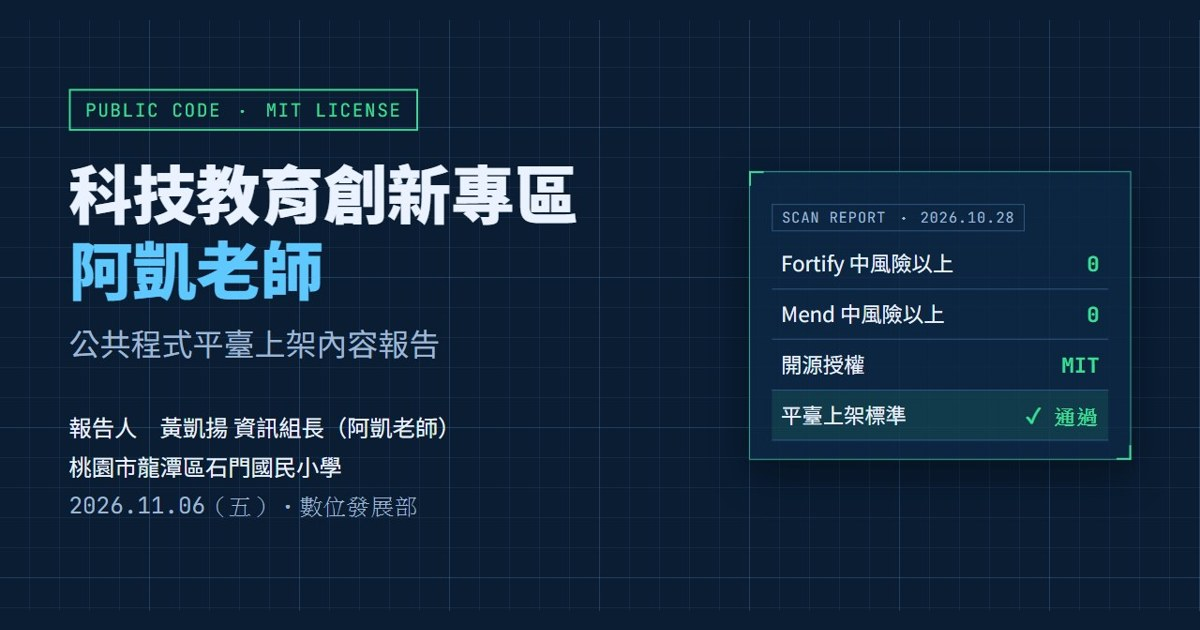
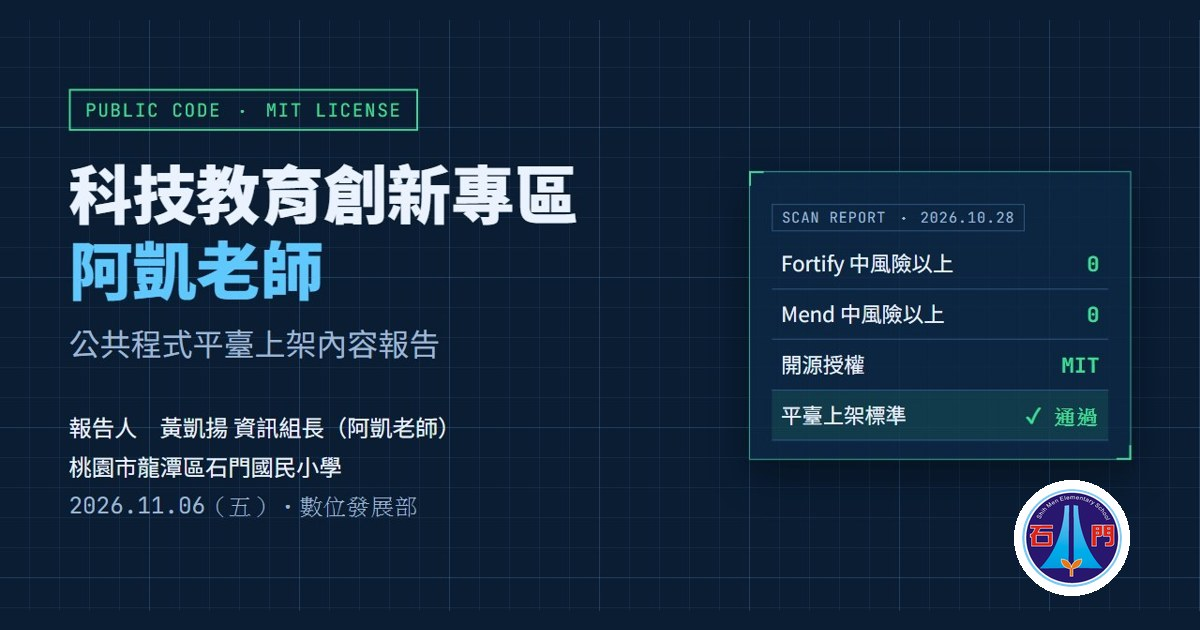
feat: 圖示全套與社群分享圖更新，加入 Service Worker 與新版本提示
- 圖示：favicon.ico／svg、apple-touch-icon、192／512 及可遮罩版本，manifest.webmanifest
- OG 預覽圖加入校徽；補齊 og:image:alt／secure_url／type、twitter 與 apple-mobile-web-app 標籤
- Service Worker：現場網路不穩時簡報仍可開啟，第三方函式庫與字型留存
- 新版本提示列（桌機膠囊、手機底部卡片），取代載入時自動重新整理；版本號改為提交時間加雜湊，同一提交重跑不會誤報

Changed region(s): [[0.8325, 0.754, 0.9558, 0.9651]]

diff --git a/js/sw-register.js b/js/sw-register.js
@@ -1,0 +1,142 @@
+/* Service Worker 註冊與「有新版本」提示
+ *  - 新版部署後，已開著簡報的人會看到提示列，按「重新整理載入」才換版（簡報進行中不會被突然換頁）。
+ *  - 兩個偵測來源：① 新 Service Worker 進入 waiting；② 讀 version.json 發現比目前頁面新。
+ *    兩者共用同一個提示、同一個按鈕；按下當下才查 waiting，沒有就改用帶版本號的網址重新載入。
+ *  - 版本閘門：只有「比目前頁面版本新」才提示（CDN 邊緣節點殘留舊檔時不會誤報）；同一版本只提示一次，按過更新的版本不再提示。
+ *  - 網址加 ?swdemo=1 可直接預覽提示列的樣式。 */
+(function () {
+  var params = new URLSearchParams(location.search);
+  if (params.has('print-pdf')) return;
+
+  var meta = document.querySelector('meta[name="build-version"]');
+  var APP_VERSION = meta ? meta.content : '';
+  var DEV = !APP_VERSION || APP_VERSION.indexOf('__') === 0; // 本機開發沒有版本號
+  var DEMO = params.has('swdemo');
+  var ACK_KEY = 'moda2026akai_update_ack';
+  var SW_REG = null;
+  var UPDATING = false;
+  var announced = '';
+  var latest = '';
+  var HAD_CONTROLLER = !!(navigator.serviceWorker && navigator.serviceWorker.controller); // 第一次安裝接管頁面不算新版
+
+  function ssGet(k) { try { return sessionStorage.getItem(k); } catch (e) { return null; } }
+  function ssSet(k, v) { try { sessionStorage.setItem(k, v); } catch (e) { /* 忽略 */ } }
+
+  // 版本格式：2026.11.01-0838-c008940（日期時間可排序＋提交雜湊）。比較時間部分，較舊＝CDN 殘留，忽略。
+  function stamp(v) { return String(v).replace(/-[0-9a-f]{7,}$/i, ''); }
+  function isNewer(candidate, base) {
+    if (!candidate || !base || candidate === base) return false;
+    var a = stamp(candidate), b = stamp(base);
+    return a !== b ? a > b : true;
+  }
+
+  function hardReload() {
+    var u = new URL(location.href);
+    u.searchParams.set('v', latest || String(Date.now()));
+    location.replace(u.toString());
+  }
+
+  function applyUpdate() {
+    if (UPDATING) return;
+    UPDATING = true;
+    ssSet(ACK_KEY, latest);
+    var bar = document.getElementById('sw-update-bar');
+    if (bar) bar.remove();
+    document.documentElement.classList.remove('has-update-bar');
+    if (SW_REG && SW_REG.waiting) {
+      SW_REG.waiting.postMessage({ type: 'SKIP_WAITING' }); // → activate → controllerchange → 重新載入
+      setTimeout(hardReload, 8000); // 保底：手機接管較慢時多等一下，仍沒換手才改用帶版本號的網址載入
+    } else {
+      hardReload();
+    }
+  }
+
+  function showBar(version) {
+    if (!DEMO && (DEV || !version || announced === version || ssGet(ACK_KEY) === version)) return;
+    if (document.getElementById('sw-update-bar')) return;
+    announced = version || announced;
+    latest = version || latest;
+    var bar = document.createElement('div');
+    bar.id = 'sw-update-bar';
+    bar.setAttribute('role', 'status');
+    bar.setAttribute('aria-live', 'polite');
+    bar.innerHTML =
+      '<span class="sw-msg"><b>簡報有新版本</b><small>重新整理載入，就能看到最新內容</small></span>' +
+      '<button type="button" id="sw-x" aria-label="關閉提示">✕</button>' +
+      '<button type="button" id="sw-go">重新整理載入</button>';
+    document.body.appendChild(bar);
+    document.documentElement.classList.add('has-update-bar');
+    document.getElementById('sw-x').onclick = function () {
+      bar.remove();
+      document.documentElement.classList.remove('has-update-bar');
+    };
+    document.getElementById('sw-go').onclick = applyUpdate; // 統一走 applyUpdate：點擊當下才查 waiting
+  }
+
+  if (DEMO) { showBar('demo'); }
+
+  // 讀取任一 Service Worker 的版本；1.5 秒沒回應就當作未知（寧可多提示，不擋真更新）
+  function workerVersion(worker) {
+    return new Promise(function (resolve) {
+      try {
+        var ch = new MessageChannel();
+        var timer = setTimeout(function () { resolve(null); }, 1500);
+        ch.port1.onmessage = function (e) { clearTimeout(timer); resolve(e.data && e.data.version ? e.data.version : null); };
+        worker.postMessage({ type: 'GET_VERSION' }, [ch.port2]);
+      } catch (e) { resolve(null); }
+    });
+  }
+
+  function onWaiting(worker) {
+    workerVersion(worker).then(function (v) {
+      if (v && !DEV && !isNewer(v, APP_VERSION)) return; // 同版重建或較舊：不是新版
+      showBar(v || latest || 'waiting');
+    });
+  }
+
+  if (DEV) {
+    // 本機開發：清掉殘留的 Service Worker，避免快取干擾
+    if (navigator.serviceWorker) navigator.serviceWorker.getRegistrations().then(function (rs) { rs.forEach(function (r) { r.unregister(); }); });
+    return;
+  }
+
+  if ('serviceWorker' in navigator) {
+    navigator.serviceWorker.register('sw.js', { updateViaCache: 'none' }).then(function (reg) {
+      SW_REG = reg;
+      if (reg.waiting && navigator.serviceWorker.controller) onWaiting(reg.waiting);
+      reg.addEventListener('updatefound', function () {
+        var nw = reg.installing;
+        if (!nw) return;
+        nw.addEventListener('statechange', function () {
+          if (nw.state === 'installed' && navigator.serviceWorker.controller) onWaiting(nw);
+        });
+      });
+      setInterval(function () { reg.update().catch(function () {}); }, 60000);
+    }).catch(function () { /* 不支援或被封鎖時，仍靠 version.json 提示 */ });
+
+    navigator.serviceWorker.addEventListener('controllerchange', function () {
+      if (!HAD_CONTROLLER) { HAD_CONTROLLER = true; return; } // 第一次安裝＋clients.claim() 也會觸發，不能重新整理
+      if (ssGet('moda2026akai_sw_reloaded')) return;
+      ssSet('moda2026akai_sw_reloaded', '1');
+      setTimeout(function () { try { sessionStorage.removeItem('moda2026akai_sw_reloaded'); } catch (e) { /* 忽略 */ } }, 4000);
+      location.reload();
+    });
+  }
+
+  // 備胎：讀 version.json。發現較新版本時，先叫 Service Worker 去抓更新，再顯示同一個提示列
+  function checkVersion() {
+    fetch('version.json?t=' + Date.now(), { cache: 'no-store' })
+      .then(function (r) { return r.ok ? r.json() : null; })
+      .then(function (d) {
+        if (!d || !isNewer(d.version, APP_VERSION)) return;
+        latest = d.version;
+        if (SW_REG) SW_REG.update().catch(function () {});
+        showBar(d.version);
+      })
+      .catch(function () { /* 離線時維持現狀 */ });
+  }
+  ['focus', 'online', 'pageshow'].forEach(function (ev) { window.addEventListener(ev, checkVersion); });
+  document.addEventListener('visibilitychange', function () { if (document.visibilityState === 'visible') checkVersion(); });
+  setTimeout(checkVersion, 6000);
+  setInterval(checkVersion, 180000);
+})();

diff --git a/sw.js b/sw.js
@@ -1,0 +1,103 @@
+/* Service Worker：讓簡報在現場網路不穩時也能打開，並在有新版時通知頁面提示重新整理。
+ * BUILD_VERSION 由部署流程（.github/stamp_version.py）蓋章，每次部署內容都不同，瀏覽器才會偵測到新版。
+ * install 不呼叫 skipWaiting：新版會停在 waiting，等使用者在頁面按「重新整理載入」才套用，簡報進行中不會被突然換頁。 */
+const BUILD_VERSION = '__BUILD_VERSION__';
+const CACHE = 'moda-akai-v-' + BUILD_VERSION;
+const CDN_CACHE = 'moda-akai-cdn'; // 第三方函式庫與字型：跨版本保留，換版不清掉
+const CDN_HOSTS = ['cdn.jsdelivr.net', 'fonts.googleapis.com', 'fonts.gstatic.com'];
+const V = '?v=' + BUILD_VERSION;
+
+const PRECACHE = [
+  './',
+  'css/deck.css' + V,
+  'js/motion.js' + V,
+  'js/opening.js' + V,
+  'js/deck.js' + V,
+  'js/sw-register.js' + V,
+  'favicon.svg',
+  'apple-touch-icon.png',
+  'manifest.webmanifest',
+  'media/opening-poster.jpg',
+  'images/shot-home.jpg',
+  'images/shot-finder.jpg',
+  'images/shot-tool.jpg',
+  'images/shot-blog.jpg',
+  'images/shot-mobile.jpg',
+  'images/shot-prompt.jpg',
+];
+
+self.addEventListener('install', (event) => {
+  event.waitUntil(
+    caches.open(CACHE).then((cache) =>
+      Promise.allSettled(PRECACHE.map((url) => cache.add(new Request(url, { cache: 'reload' })))))
+  );
+});
+
+self.addEventListener('activate', (event) => {
+  event.waitUntil((async () => {
+    const keys = await caches.keys();
+    await Promise.all(keys.filter((k) => k.startsWith('moda-akai-v-') && k !== CACHE).map((k) => caches.delete(k)));
+    await self.clients.claim();
+  })());
+});
+
+self.addEventListener('message', (event) => {
+  const data = event.data || {};
+  if (data.type === 'SKIP_WAITING') {
+    self.skipWaiting();
+  } else if (data.type === 'GET_VERSION') {
+    event.ports[0]?.postMessage({ version: BUILD_VERSION });
+  }
+});
+
+self.addEventListener('fetch', (event) => {
+  const req = event.request;
+  if (req.method !== 'GET') return;
+  let url;
+  try { url = new URL(req.url); } catch { return; }
+
+  // 影片不經過 Service Worker（瀏覽器用 Range 分段讀取，快取不好處理）
+  if (req.headers.has('range') || /\.(mp4|webm)$/i.test(url.pathname)) return;
+
+  // 第三方函式庫與字型：有快取先用、背景更新（現場沒網路時簡報仍能載入）
+  if (CDN_HOSTS.includes(url.hostname)) {
+    event.respondWith((async () => {
+      const cache = await caches.open(CDN_CACHE);
+      const cached = await cache.match(req);
+      const network = fetch(req).then((res) => {
+        if (res && (res.ok || res.type === 'opaque')) cache.put(req, res.clone());
+        return res;
+      }).catch(() => cached);
+      return cached || network;
+    })());
+    return;
+  }
+
+  if (url.origin !== self.location.origin) return;
+
+  // 版本檔永遠向伺服器要最新的
+  if (url.pathname.endsWith('/version.json')) {
+    event.respondWith(fetch(req, { cache: 'no-store' }).catch(() => caches.match(req)));
+    return;
+  }
+
+  // 頁面本身：網路優先（不吃瀏覽器 10 分鐘快取），離線才用留存的
+  if (req.mode === 'navigate' || (req.headers.get('accept') || '').includes('text/html')) {
+    event.respondWith(
+      fetch(req, { cache: 'no-cache' }).then((res) => {
+        if (res.ok) { const copy = res.clone(); caches.open(CACHE).then((c) => c.put(req, copy)); }
+        return res;
+      }).catch(() => caches.match(req, { ignoreSearch: true }).then((r) => r || caches.match('./')))
+    );
+    return;
+  }
+
+  // 其他同源檔案：網址帶版本號的內容不會變，有快取就直接用；沒有再下載並留存
+  event.respondWith(caches.match(req).then((cached) => {
+    if (cached) return cached;
+    return fetch(req).then((res) => {
+      if (res && res.status === 200 && res.type === 'basic') { const copy = res.clone(); caches.open(CACHE).then((c) => c.put(req, copy)); }
+      return res;
+    }).catch(() => caches.match(req, { ignoreSearch: true }));
+  }));
+});

diff --git a/index.html b/index.html
@@ -7,18 +7,35 @@
   <meta name="description" content="桃園市龍潭區石門國民小學資訊組長黃凱揚，向數位發展部報告「科技教育創新專區・阿凱老師」的開發緣起、校園使用情形、公共程式上架與資安檢測歷程。" />
   <meta name="author" content="阿凱老師（桃園市龍潭區石門國民小學）" />
   <meta name="theme-color" content="#0a1d33" />
+  <meta name="build-version" content="__BUILD_VERSION__" />
+  <!-- 圖示：相對路徑，GitHub Pages 子目錄部署也能正確載入 -->
+  <link rel="icon" href="favicon.ico" sizes="any" />
   <link rel="icon" type="image/svg+xml" href="favicon.svg" />
   <link rel="apple-touch-icon" href="apple-touch-icon.png" />
+  <link rel="manifest" href="manifest.webmanifest" />
+  <meta name="mobile-web-app-capable" content="yes" />
+  <meta name="apple-mobile-web-app-capable" content="yes" />
+  <meta name="apple-mobile-web-app-title" content="阿凱老師報告" />
+  <meta name="apple-mobile-web-app-status-bar-style" content="black-translucent" />
   <link rel="canonical" href="https://cagoooo.github.io/moda-akai-briefing/" />
+  <!-- 社群分享卡片（LINE、Facebook 等）：og:image 一律用絕對網址，並帶版本號避免平台快取舊圖 -->
   <meta property="og:type" content="website" />
+  <meta property="og:site_name" content="科技教育創新專區・阿凱老師" />
   <meta property="og:locale" content="zh_TW" />
   <meta property="og:url" content="https://cagoooo.github.io/moda-akai-briefing/" />
   <meta property="og:title" content="科技教育創新專區・阿凱老師｜公共程式平臺上架內容報告" />
   <meta property="og:description" content="一位國小資訊組長，用 AI 協作開發 133 款教學工具，並通過公共程式平臺資安檢測的歷程。" />
   <meta property="og:image" content="https://cagoooo.github.io/moda-akai-briefing/og-image.jpg?v=__BUILD_VERSION__" />
+  <meta property="og:image:secure_url" content="https://cagoooo.github.io/moda-akai-briefing/og-image.jpg?v=__BUILD_VERSION__" />
+  <meta property="og:image:type" content="image/jpeg" />
   <meta property="og:image:width" content="1200" />
   <meta property="og:image:height" content="630" />
+  <meta property="og:image:alt" content="科技教育創新專區・阿凱老師公共程式平臺上架內容報告封面：Fortify、Mend 中風險以上皆為 0，MIT 開源，通過平臺上架標準" />
   <meta name="twitter:card" content="summary_large_image" />
+  <meta name="twitter:title" content="科技教育創新專區・阿凱老師｜公共程式平臺上架內容報告" />
+  <meta name="twitter:description" content="一位國小資訊組長，用 AI 協作開發 133 款教學工具，並通過公共程式平臺資安檢測的歷程。" />
+  <meta name="twitter:image" content="https://cagoooo.github.io/moda-akai-briefing/og-image.jpg?v=__BUILD_VERSION__" />
+  <meta name="twitter:image:alt" content="科技教育創新專區・阿凱老師公共程式平臺上架內容報告封面" />
   <script>
     try { if (localStorage.getItem('moda2026akai_theme') === 'light') document.documentElement.dataset.theme = 'light'; } catch (e) {}
   </script>
@@ -544,5 +561,6 @@
 <script src="js/motion.js?v=__BUILD_VERSION__"></script>
 <script src="js/opening.js?v=__BUILD_VERSION__"></script>
 <script type="module" src="js/deck.js?v=__BUILD_VERSION__"></script>
+<script src="js/sw-register.js?v=__BUILD_VERSION__"></script>
 </body>
 </html>

diff --git a/css/deck.css b/css/deck.css
@@ -369,6 +369,36 @@ html.is-opening .swipe-hint { opacity: 0; }
   .swipe-hint .sh-arrows i { opacity: 1; }
 }
 
+/* 新版本提示列（js/sw-register.js）：桌機置中膠囊，手機改為底部滿寬卡片 */
+#sw-update-bar {
+  position: fixed; left: 50%; bottom: 44px; transform: translateX(-50%); z-index: 60;
+  display: flex; align-items: center; gap: 14px; width: max-content; max-width: calc(100vw - 24px);
+  background: var(--panel-solid); color: var(--ink); border: 1px solid var(--pass);
+  padding: 12px 14px 12px 20px; box-shadow: var(--shadow), 0 0 0 4px color-mix(in srgb, var(--pass) 16%, transparent);
+  font: 500 16px 'Noto Sans TC', sans-serif; animation: sw-in .35s ease-out;
+}
+#sw-update-bar .sw-msg { display: flex; flex-direction: column; line-height: 1.35; }
+#sw-update-bar .sw-msg b { font-size: 18px; color: var(--pass-ink); }
+#sw-update-bar .sw-msg small { font-size: 14px; color: var(--muted); }
+#sw-update-bar button { cursor: pointer; font: 700 16px 'Noto Sans TC', sans-serif; border: 0; }
+#sw-go { order: 2; background: var(--pass); color: #04210f; padding: 10px 18px; min-height: 44px; }
+[data-theme="light"] #sw-go { background: var(--pass-ink); color: #fff; }
+#sw-x { order: 3; background: transparent; color: var(--muted); width: 44px; height: 44px; font-size: 18px; }
+#sw-go:focus-visible, #sw-x:focus-visible { outline: 3px solid var(--cyan); outline-offset: 2px; }
+html.has-update-bar .swipe-hint { display: none !important; }
+@keyframes sw-in { from { opacity: 0; transform: translate(-50%, 12px); } to { opacity: 1; transform: translate(-50%, 0); } }
+@media (max-width: 560px) {
+  #sw-update-bar {
+    left: 12px; right: 12px; bottom: max(40px, env(safe-area-inset-bottom)); transform: none; width: auto;
+    display: grid; grid-template-columns: 1fr auto; grid-template-areas: "msg x" "go go"; gap: 10px; padding: 14px 14px 14px 18px;
+    animation: none;
+  }
+  #sw-update-bar .sw-msg { grid-area: msg; }
+  #sw-x { grid-area: x; }
+  #sw-go { grid-area: go; width: 100%; min-height: 48px; }
+}
+@media (prefers-reduced-motion: reduce) { #sw-update-bar { animation: none; } }
+
 /* 開場影片頁 */
 .vid-slide .op-wrap { position: relative; width: 1280px; height: 720px; background: #000; }
 .vid-slide .op-video { width: 100%; height: 100%; object-fit: cover; display: block; }

diff --git a/js/deck.js b/js/deck.js
@@ -50,31 +50,7 @@ document.querySelectorAll('.qr[data-url]').forEach((box) => {
   sync();
 })();
 
-/* ---------- 新版偵測 ----------
- * GitHub Pages 會讓瀏覽器把 index.html 留存約 10 分鐘，剛部署完用手機開，可能還拿到舊版頁面（沒有 Service Worker 可以更新）。
- * 載入時用不留快取的方式讀 version.json，和目前頁面引用的版本號比對，不同就換成帶版本號的網址重新載入（每個版本只會重載一次，避免無限重載）。 */
-(function versionCheck() {
-  const RELOAD_KEY = 'moda2026akai_reloaded_to';
-  const current = (document.querySelector('link[href*="deck.css"]')?.getAttribute('href') || '').match(/[?&]v=([^&]+)/)?.[1];
-  if (!current || current.startsWith('__')) return; // 本機開發沒有版本號，略過
-  const check = async () => {
-    try {
-      const res = await fetch(`version.json?t=${Date.now()}`, { cache: 'no-store' });
-      if (!res.ok) return;
-      const { version } = await res.json();
-      if (!version || version === current) return;
-      let tried = null;
-      try { tried = sessionStorage.getItem(RELOAD_KEY); } catch { /* 忽略 */ }
-      if (tried === version) return;
-      try { sessionStorage.setItem(RELOAD_KEY, version); } catch { /* 忽略 */ }
-      const url = new URL(location.href);
-      url.searchParams.set('v', version);
-      location.replace(url.toString());
-    } catch { /* 離線或讀取失敗時維持現狀 */ }
-  };
-  check();
-  document.addEventListener('visibilitychange', () => { if (document.visibilityState === 'visible') check(); });
-})();
+/* 新版偵測與提示改由 js/sw-register.js 負責（Service Worker 版本通知）。 */
 
 /* ---------- 示範備援影片：現場網路不穩時改播錄好的示範 ---------- */
 const backup = document.getElementById('backup');
